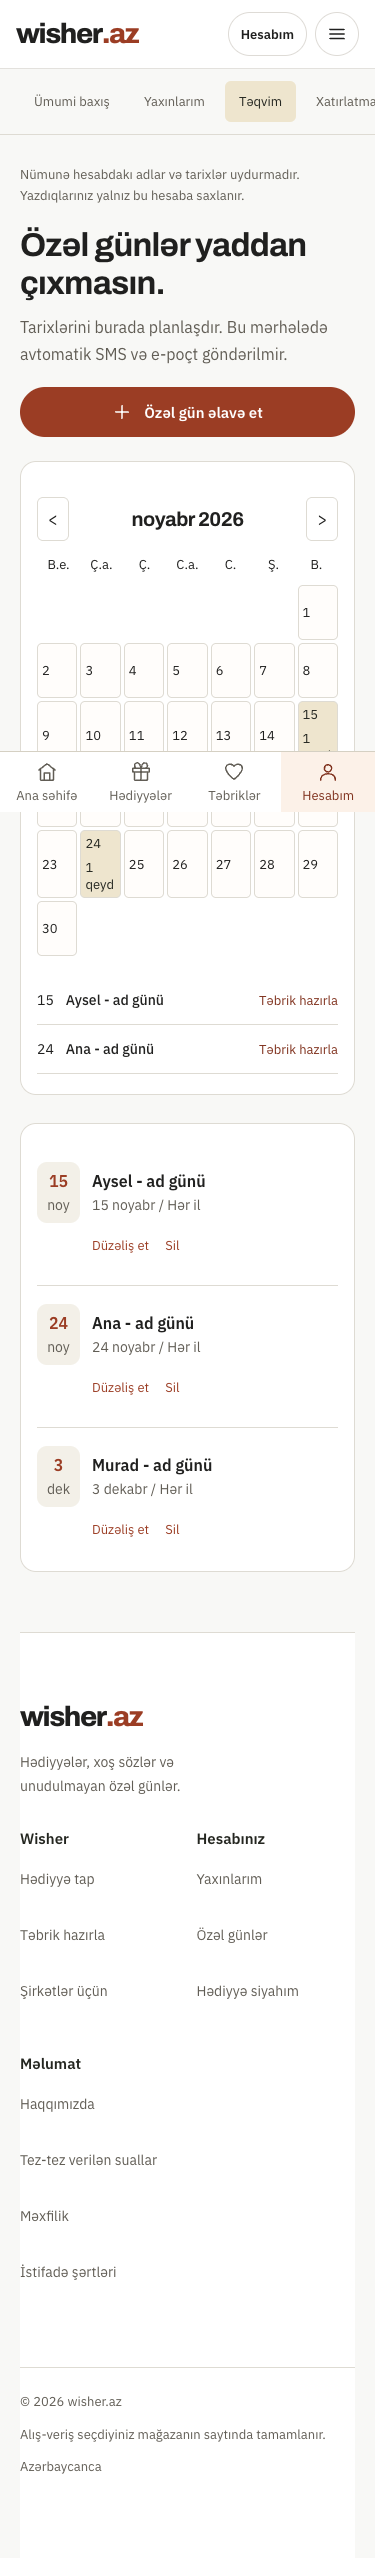
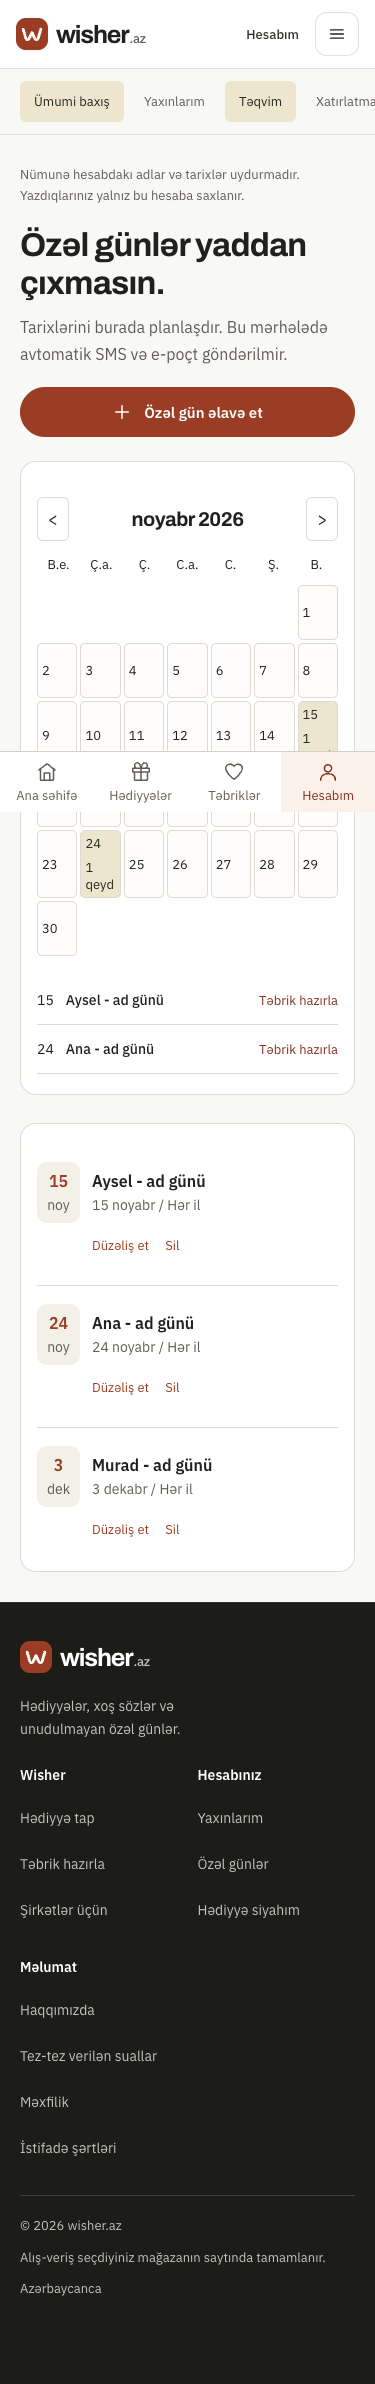
Redesign homepage sections and make the footer full width

diff --git a/frontend/src/app/lower-page.css b/frontend/src/app/lower-page.css
@@ -1,0 +1,7 @@
+/* Lower-page composition: product collection, occasion example, company tools. */
+.counter-home{max-width:1240px;padding:0 32px}.counter-home .gift-finder{padding:32px 0;display:grid;grid-template-columns:230px 1fr;gap:32px;align-items:center}.counter-home .gift-finder h2{font-size:24px;line-height:1.2;margin:0;text-wrap:balance}.counter-home .gift-finder form{gap:10px;grid-template-columns:1fr 1fr .95fr auto}.counter-home .gift-finder button{padding:0 18px}.gift-collection{padding:46px 0 54px}.counter-home .gift-collection h2{font-size:32px;letter-spacing:-.035em;max-width:600px;text-wrap:balance}.gift-collection .section-top p{font-size:15px;margin-top:10px}.collection-filters{display:flex;gap:8px;flex-wrap:wrap;margin:22px 0}.collection-filters button{border:1px solid #d8d4cc;border-radius:24px;padding:0 18px;min-height:44px;background:transparent;color:#4f4b43;font-size:14px}.collection-filters button[aria-pressed=true]{background:#242320;border-color:#242320;color:#fff}.gift-collection-grid{display:grid;grid-template-columns:repeat(3,minmax(0,1fr));gap:32px 24px}.gift-item{min-width:0}.gift-item-image{display:block;height:250px;border-radius:14px;background:white;overflow:hidden}.gift-item-image img{width:100%;height:100%;object-fit:contain;padding:18px;transition:transform .18s ease}.gift-item-image:hover img{transform:scale(1.04)}.gift-item-meta{display:flex;justify-content:space-between;gap:12px;font-size:13px;color:#625e56;margin-top:16px;line-height:1.5}.gift-item-meta>span:last-child{text-align:right}.gift-item-name{display:flex;align-items:flex-start;min-height:56px;padding:8px 0}.gift-item h3{font-family:'IBM Plex Sans',sans-serif;font-weight:600;font-size:17px;line-height:1.4;letter-spacing:-.015em}.gift-item-price{display:flex;justify-content:space-between;align-items:center;gap:8px}.gift-item-price strong{font-size:24px;letter-spacing:-.035em;font-variant-numeric:tabular-nums}.gift-item-price a{display:grid;place-items:center;border:1px solid #d8d4cc;border-radius:50%;width:44px;height:44px;color:#80321e}.gift-item-price a:hover{background:#f3e9df}.gift-item .price-note{font-size:13px;color:#625e56;margin-top:2px}.collection-status{min-height:180px;display:flex;align-items:center;justify-content:center;flex-direction:column;gap:16px}.section-label{display:block;font-size:13px;font-weight:600;color:#80321e;margin-bottom:16px}.occasion-workbench{display:grid;grid-template-columns:1fr 360px;gap:80px;align-items:center;background:#eee9df;border-radius:20px;padding:46px 56px;margin:4px 0 50px}.counter-home .occasion-copy h2{font-size:36px;line-height:1.12;max-width:400px;text-wrap:balance}.occasion-copy p{font-size:16px;max-width:430px;margin:18px 0 24px;line-height:1.65}.occasion-copy .button{font-size:14px;background:#9b3d24;color:#fff}.calendar-example{background:#fff;border:1px solid #d4cec2;border-radius:14px;padding:22px}.calendar-example-top{display:flex;justify-content:space-between;align-items:center;font-size:15px;margin-bottom:16px}.calendar-example-top>span{font-size:13px;color:#625e56}.calendar-example-grid{display:grid;grid-template-columns:repeat(7,1fr);gap:3px;text-align:center;align-items:center;font-variant-numeric:tabular-nums}.calendar-example-grid>span{height:30px;display:grid;place-items:center;font-size:14px;color:#4f4b43}.calendar-example-grid>span:nth-child(-n+7){font-size:13px;color:#625e56;margin-bottom:6px}.calendar-example-grid .occasion-day{background:#9b3d24;color:#fff;border-radius:50%}.calendar-example-event{border-top:1px solid #ded8ce;margin-top:16px;padding-top:16px;display:flex;align-items:center;gap:12px;min-height:60px}.date-number{font-size:23px;font-weight:600;color:#80321e}.calendar-example-event strong{font-size:14px;display:block}.calendar-example-event small{font-size:13px;color:#625e56}.calendar-example-event>svg{margin-left:auto;width:18px;color:#80321e}.company-workbench{display:grid;grid-template-columns:1fr 1fr;gap:100px;padding:0 0 46px;border-bottom:1px solid #dcd7ce}.counter-home .company-workbench h2{font-size:32px;line-height:1.15;max-width:400px;text-wrap:balance}.company-workbench p{font-size:16px;line-height:1.7;margin:18px 0}.company-workbench .text-action{min-height:44px}.company-workbench nav{display:flex;flex-direction:column}.company-workbench nav>a{display:flex;align-items:center;justify-content:space-between;gap:16px;padding:20px 0;min-height:90px;border-bottom:1px solid #dcd7ce}.company-workbench nav>a:first-child{padding-top:0}.company-workbench nav strong{font-size:19px;font-weight:500;display:block}.company-workbench nav small{font-size:14px;color:#625e56;display:block;margin-top:6px}.company-workbench nav svg{color:#80321e}.counter-home .purchase-explainer{padding:26px 0 36px}.counter-home .purchase-explainer h2{font-size:18px}
+/* Background spans the viewport; only the contents have a maximum width. */
+.global-footer{max-width:none;width:100%;margin:0;padding:46px max(32px,calc((100% - 1176px)/2)) 24px;background:#1c1c19;border-top:1px solid #34342e;color:#fff}.global-footer .footer-main{padding:0;gap:50px;grid-template-columns:1.5fr 1fr 1fr 1fr}.global-footer .footer-main>div{gap:5px}.global-footer h2{color:#fff;font-size:14px;margin-bottom:10px}.global-footer .footer-main p,.global-footer .footer-main a:not([aria-label]){color:#c4c2b9;font-size:14px;line-height:1.6}.global-footer .footer-main p{margin-top:14px;max-width:220px}.global-footer .footer-main a:not([aria-label]){display:flex;align-items:center;justify-content:flex-start;min-height:44px}.global-footer a [class*="brandWord"]{color:#fff}.global-footer a [class*="brandDomain"]{color:#c4c2b9}.global-footer .footer-bottom{color:#c4c2b9;border-color:#414139;padding-top:20px;margin-top:30px;font-size:13px;line-height:1.5}.global-footer a:focus-visible{outline-color:#f3bd95}.global-footer a:hover{color:#fff}
+@media(max-width:1000px){.counter-home .gift-finder{display:block}.counter-home .gift-finder h2{margin-bottom:18px}.occasion-workbench{gap:36px;padding:32px;grid-template-columns:1fr 320px}.company-workbench{gap:50px}.gift-item-meta{flex-direction:column;gap:0}.gift-item-meta>span:last-child{text-align:left}.global-footer .footer-main{gap:28px}}
+@media(max-width:760px){.counter-home{padding:0 16px;margin:0}.counter-home .gift-finder{padding:24px 0}.counter-home .gift-finder h2{font-size:23px;text-align:left}.counter-home .gift-finder form{grid-template-columns:1fr 1fr;gap:12px}.counter-home .gift-finder button{padding:0 12px;font-size:13px}.gift-collection{padding:28px 0 32px}.counter-home .gift-collection h2{font-size:27px}.gift-collection .section-top p{font-size:14px;line-height:1.6}.collection-filters{gap:6px;margin:14px 0 20px}.collection-filters button{padding:0 12px;font-size:13px}.gift-collection-grid{grid-template-columns:1fr 1fr;gap:24px 14px}.gift-item-image{height:165px;border-radius:10px}.gift-item-image img{padding:9px}.gift-item-meta{margin-top:10px;font-size:13px}.gift-item h3{font-size:15px;line-height:1.4}.gift-item-name{min-height:0;padding:7px 0}.gift-item-price strong{font-size:20px}.gift-item-price a{width:44px;height:44px;flex-shrink:0}.gift-item-price a svg{width:18px}.gift-item .price-note{font-size:13px;line-height:1.5}.occasion-workbench{grid-template-columns:1fr;padding:26px 20px;gap:24px;border-radius:14px;margin:0 0 32px}.counter-home .occasion-copy h2{font-size:29px}.occasion-copy p{font-size:15px;margin:14px 0 18px}.calendar-example{padding:18px}.company-workbench{grid-template-columns:1fr;gap:16px;padding-bottom:28px}.counter-home .company-workbench h2{font-size:29px}.company-workbench p{font-size:15px;margin:14px 0}.company-workbench nav>a{padding:16px 0;min-height:82px}.company-workbench nav>a:first-child{padding-top:16px}.company-workbench nav strong{font-size:18px}.counter-home .purchase-explainer{padding:22px 0 30px}.global-footer{width:100%;margin:0;padding:32px 20px 85px}.global-footer .footer-main{grid-template-columns:1fr 1fr;gap:26px 20px}.global-footer .footer-main>div:first-child{grid-column:1/-1}.global-footer .footer-main p{max-width:280px}.global-footer .footer-bottom{gap:12px;margin-top:25px;display:flex;flex-direction:column}.global-footer .footer-main>div{gap:2px}}
+@media(prefers-reduced-motion:reduce){.gift-item-image img{transition:none}.gift-item-image:hover img{transform:none}}

diff --git a/frontend/src/components/HomeSections.tsx b/frontend/src/components/HomeSections.tsx
@@ -6,6 +6,7 @@ import {site} from '@/messages/site';
 export default function HomeSections(){return <div className="home-sections counter-home">
  <section className="gift-finder"><h2>{t.finderTitle}</h2><form action="/gifts"><label>{t.recipient}<select name="recipient" aria-label={t.recipient}><option value="">{t.any}</option>{Object.entries(site.recipients).map(([value,label])=><option key={value} value={value}>{label}</option>)}</select></label><label>{t.occasion}<select name="occasion" aria-label={t.occasion}><option value="">{t.any}</option>{Object.entries(site.occasions).map(([value,label])=><option key={value} value={value}>{label}</option>)}</select></label><label>{t.budget}<select name="max" aria-label={t.budget}><option value="">{t.noLimit}</option>{[50,100,200].map((v,i)=><option key={v} value={v}>{t.budgets[i]}</option>)}</select></label><button type="submit">{t.search}<Icon name="arrow"/></button></form></section>
  <FeaturedGifts/>
- <div className="home-tools"><section><div className="tool-heading"><Icon name="calendar"/><h2>{t.calendarTitle}</h2></div><p>{t.calendarIntro}</p><Link href="/user/occasions" className="text-action">{t.calendarAction}<Icon name="arrow"/></Link></section><section><div className="tool-heading"><Icon name="business"/><h2>{t.companyTitle}</h2></div><p>{t.companyIntro}</p><Link href="/companies" className="text-action">{t.companyAction}<Icon name="arrow"/></Link></section></div>
+ <section className="occasion-workbench"><div className="occasion-copy"><span className="section-label">{t.calendarLabel}</span><h2>{t.calendarTitle}</h2><p>{t.calendarIntro}</p><Link href="/user/occasions" className="button">{t.calendarAction}<Icon name="arrow"/></Link></div><div className="calendar-example" aria-label={t.sample}><div className="calendar-example-top"><strong>{t.sampleMonth}</strong><span>{t.sample}</span></div><div className="calendar-example-grid" aria-hidden="true">{t.weekdays.map((day,i)=><span key={i}>{day}</span>)}{Array.from({length:6},(_,i)=><i key={'blank'+i}/>)}{Array.from({length:30},(_,i)=><span key={'day'+i} className={i===14?'occasion-day':undefined}>{i+1}</span>)}</div><Link href="/user/occasions" className="calendar-example-event"><span className="date-number">15</span><span><strong>{t.sampleOccasion}</strong><small>{t.sampleDate}</small></span><Icon name="arrow"/></Link></div></section>
+ <section className="company-workbench"><div><span className="section-label">{t.companyLabel}</span><h2>{t.companyTitle}</h2><p>{t.companyIntro}</p><Link href="/companies" className="text-action">{t.companyAction}<Icon name="arrow"/></Link></div><nav aria-label={t.companyLabel}>{t.companyLinks.map(([title,description],index)=><Link href={'/user/company?tab='+['people','brand','campaigns'][index]} key={title}><span><strong>{title}</strong><small>{description}</small></span><Icon name="arrow"/></Link>)}</nav></section>
  <section className="purchase-explainer"><div><h2>{t.purchaseTitle}</h2><p>{t.purchaseText}</p></div><Link href="/faq" className="text-action">{t.purchaseLink}<Icon name="arrow"/></Link></section>
  </div>}

diff --git a/frontend/src/components/FeaturedGifts.tsx b/frontend/src/components/FeaturedGifts.tsx
@@ -1,8 +1,15 @@
 'use client';
 import {useEffect,useState} from 'react';
 import Link from 'next/link';
-import {api,Product} from '@/lib/workspace';
-import {ProductCard} from './ProductCatalog';
+import {api,Product,money} from '@/lib/workspace';
+import {ProductImage} from './ProductCatalog';
 import {homeContent as t} from '@/messages/opening';
+import {site} from '@/messages/site';
 import {Icon} from './HomeOpening';
-export default function FeaturedGifts(){const [items,setItems]=useState<Product[]>([]);useEffect(()=>{let active=true;api('catalog').then(d=>{if(active)setItems(d.data.slice(0,6))}).catch(()=>{});return()=>{active=false}},[]);if(!items.length)return null;return <section className="content-section"><div className="section-top"><div><h2>{t.giftsTitle}</h2><p>{t.giftsIntro}</p></div><Link href="/gifts" className="text-action">{t.allGifts} <Icon name="arrow"/></Link></div><div className="product-grid">{items.map(p=><ProductCard key={p.id} product={p}/>)}</div></section>}
+export default function FeaturedGifts(){
+ const [items,setItems]=useState<Product[]>([]),[category,setCategory]=useState(''),[state,setState]=useState('loading');
+ async function load(){setState('loading');try{const d=await api('catalog');setItems(d.data.slice(0,6));setState('ready')}catch{setState('error')}}
+ useEffect(()=>{load()},[]);
+ const categories=[...new Set(items.map(p=>p.category))],shown=items.filter(p=>!category||p.category===category);
+ return <section className="gift-collection"><div className="section-top"><div><h2>{t.giftsTitle}</h2><p>{t.giftsIntro}</p></div><Link href="/gifts" className="text-action">{t.allGifts}<Icon name="arrow"/></Link></div><div className="collection-filters" aria-label={t.filterLabel}>{['',...categories].map(c=><button key={c} aria-pressed={category===c} onClick={()=>setCategory(c)}>{c?site.categories[c as keyof typeof site.categories]:t.all}</button>)}</div>{state==='loading'?<p className="collection-status" role="status">{t.catalogLoading}</p>:state==='error'?<div className="collection-status" role="alert"><p>{t.catalogError}</p><button className="quiet-button" onClick={load}>{t.retry}</button></div>:!shown.length?<p className="collection-status">{t.catalogEmpty}</p>:<div className="gift-collection-grid">{shown.map(p=><article className="gift-item" key={p.id}><Link className="gift-item-image" href={'/gifts/'+p.id}><ProductImage product={p}/></Link><div className="gift-item-meta"><span>{p.store}</span><span>{site.categories[p.category as keyof typeof site.categories]}</span></div><Link href={'/gifts/'+p.id} className="gift-item-name"><h3>{p.title.replace(/\s+\d{10,14}/g,'').replace(/\s*\([^)]*\)\s*$/,'')}</h3></Link><div className="gift-item-price"><strong>{p.price_minor===null?t.priceUnknown:money(p.price_minor)}</strong><Link href={'/gifts/'+p.id} aria-label={t.viewGift+': '+p.title}><Icon name="arrow"/></Link></div><p className="price-note">{p.stale?t.stale:t.priceNote}</p></article>)}</div>}</section>
+}

diff --git a/frontend/src/messages/opening.ts b/frontend/src/messages/opening.ts
@@ -13,8 +13,10 @@ export const opening={
 };
 
 export const homeContent={
+ catalogLoading:'Hədiyyələr yüklənir...',catalogError:'Hədiyyələri yükləmək alınmadı.',catalogEmpty:'Bu bölməyə yeni hədiyyələr əlavə ediləcək.',retry:'Yenidən yoxla',viewGift:'Hədiyyəyə bax',priceNote:'Son yoxlanışdakı qiymət',priceUnknown:'Qiymət mağazada',stale:'Qiyməti mağazada dəqiqləşdirin',all:'Hamısı',filterLabel:'Hədiyyə kateqoriyaları',
  finderTitle:'Kimə hədiyyə axtarırsınız?',recipient:'Kimə?',occasion:'Nə münasibətilə?',budget:'Büdcə',any:'Hamısı',search:'Hədiyyələri göstər',noLimit:'İstənilən büdcə',budgets:['50 AZN-dək','100 AZN-dək','200 AZN-dək'],
- giftsTitle:'Hədiyyələri müqayisə edin.',giftsIntro:'Məhsulu seçin, qiymətinə və mağazasına baxın.',allGifts:'Bütün hədiyyələr',
+ giftsTitle:'Onun sevəcəyi hədiyyəni tapın.',giftsIntro:'Hobbiləri, gündəlik zövqləri və özəl günləri üçün seçimlər.',allGifts:'Bütün hədiyyələr',
+ sample:'Nümunə',sampleMonth:'Noyabr 2026',weekdays:['B.e.','Ç.a.','Ç.','C.a.','C.','Ş.','B.'],sampleOccasion:'Ayselin ad günü',sampleDate:'15 noyabr',calendarLabel:'Özəl günlər',companyLinks:[['İnsanlar','Əməkdaşlar və müştərilər'],['Təbrik kartları','Şirkətinizin imzası ilə'],['Hədiyyə planları','Alıcılar və büdcə']],
  calendarTitle:'Növbəti ad gününü yadda saxlayın.',calendarIntro:'Yaxınınızın adını və tarixini əlavə edin. Qarşıdakı özəl günlər hesabınızda görünsün.',calendarAction:'Təqvimə əlavə et',
  companyTitle:'Komandanızın özəl günləri üçün.',companyIntro:'Əməkdaşları və müştəriləri seçin, hədiyyə büdcəsini planlaşdırın, şirkətinizin imzası ilə təbrik kartı hazırlayın.',companyAction:'Şirkət sahəsini aç',companyLabel:'Şirkətlər üçün',
  purchaseTitle:'Seçdiyiniz hədiyyəni necə alırsınız?',purchaseText:'Məhsulun səhifəsindən mağazaya keçib sifariş verirsiniz. Ödəniş, çatdırılma və qaytarma həmin mağazada həll olunur.',purchaseLink:'Suallar və cavablar',

diff --git a/frontend/src/components/CompanyWorkspace.tsx b/frontend/src/components/CompanyWorkspace.tsx
@@ -17,7 +17,7 @@ export default function CompanyWorkspace(){
  async function loadCompany(){const d=await api('company');setCompany(d.company);if(d.company)setBrand(d.company);setLoaded(true)}
  async function loadPeople(){setPeople(await api('company/people?page='+personPage+'&q='+encodeURIComponent(search)))}
  async function loadCampaigns(){setCampaigns(await api('company/campaigns?page='+campaignPage))}
- useEffect(()=>{loadCompany().catch(e=>{setError(e.message);setLoaded(true)})},[]);
+ useEffect(()=>{const requested=new URLSearchParams(location.search).get('tab');if(requested&&['people','brand','campaigns'].includes(requested))setTab(requested);loadCompany().catch(e=>{setError(e.message);setLoaded(true)})},[]);
  useEffect(()=>{if(company)loadPeople().catch(e=>setError(e.message))},[company,personPage,search]);
  useEffect(()=>{if(company)loadCampaigns().catch(e=>setError(e.message))},[company,campaignPage]);
  useEffect(()=>{if(!campaignOpen)return;const timer=setTimeout(()=>{api('catalog?q='+encodeURIComponent(productSearch)).then(d=>setProducts(d.data)).catch(e=>setError(e.message))},250);return()=>clearTimeout(timer)},[campaignOpen,productSearch]);

diff --git a/frontend/src/app/layout.tsx b/frontend/src/app/layout.tsx
@@ -1,6 +1,7 @@
 import './fonts.css';
 import './globals.css';
 import './product.css';
+import './lower-page.css';
 import SiteShell from '@/components/SiteShell';
 import type {Metadata} from 'next';
 export const metadata:Metadata={title:'Wisher.az - Hədiyyələr və şəxsi təbriklər',description:'Yaxınlarınız üçün hədiyyə seçin, şəxsi təbriklər hazırlayın və özəl günləri planlaşdırın.',robots:{index:false,follow:false}};

diff --git a/docs/design.md b/docs/design.md
@@ -21,3 +21,9 @@ Rendered and inspected at 1440 and 375; also checked layout and sticky positioni
 Two logo treatments were rendered in actual header context: the implemented custom mark with wordmark (`header-detail-1440.png`, `header-detail-375.png`) and a quieter wordmark-only alternative (`header-wordmark-option-1440.png`, `header-wordmark-option-375.png`). Full opening views are `header-refresh-1440.png` and `header-refresh-375.png`. The icon uses the same vector mark and is served by the application as `/icon.svg`.
 
 Patterns addressed in this narrow change: generic plain-text identity becomes a recognizable small mark; equally prominent rounded controls become a clear navigation/account/action hierarchy. No proof claims, decorative product illustrations, new marketing copy or changes to the hero were added.
+
+## Below-hero revision
+
+2026-11-12: Rashad accepted the header/logo for now and the hero, but rejected the remaining sections and requested a full-width footer. Preserve those accepted regions. Replace repeated bordered product cards with a photo-led collection and category filters; give occasion planning a labeled calendar example and company tools a separate divided navigation section. Footer uses a viewport-wide dark background with an aligned content grid. Backup: docs/evidence/design/before-lower-page-refresh.tar.gz.
+
+Lower-page verification: production build/type checks passed; the design sweep found no overflow, text below 12.5px or flat-background text contrast findings across 20 route/viewport combinations. Footer bounds equal the viewport at 1440 and 375. Category filters switch all six source products to the two hobby products and back; gift finder, hero selection, card download and catalog retry pass. Company links open the requested people/branding/planning tab; tab entry was checked with mocked account responses. Desktop and mobile renders inspected. Section-only screenshots omit fixed header, bottom navigation and skip-link chrome to avoid full-page capture artifacts. Full-page screenshots preserve the actual page. No backend messaging, purchases or paid generation were performed.
